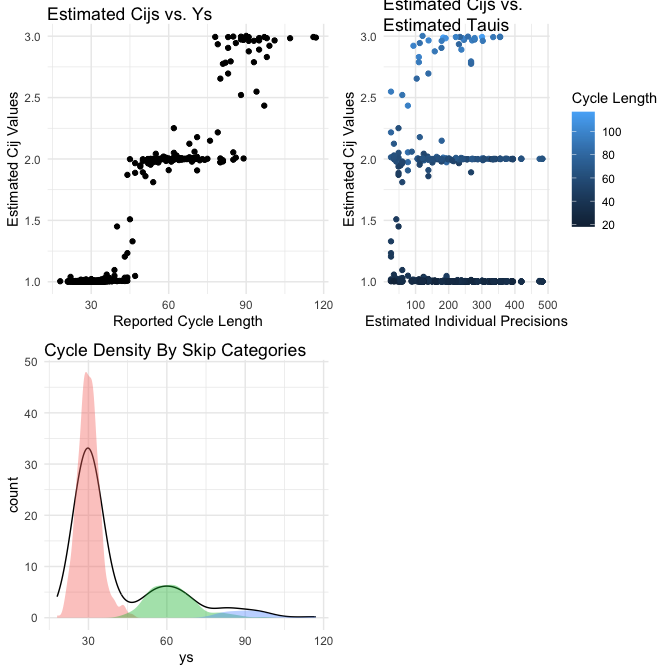
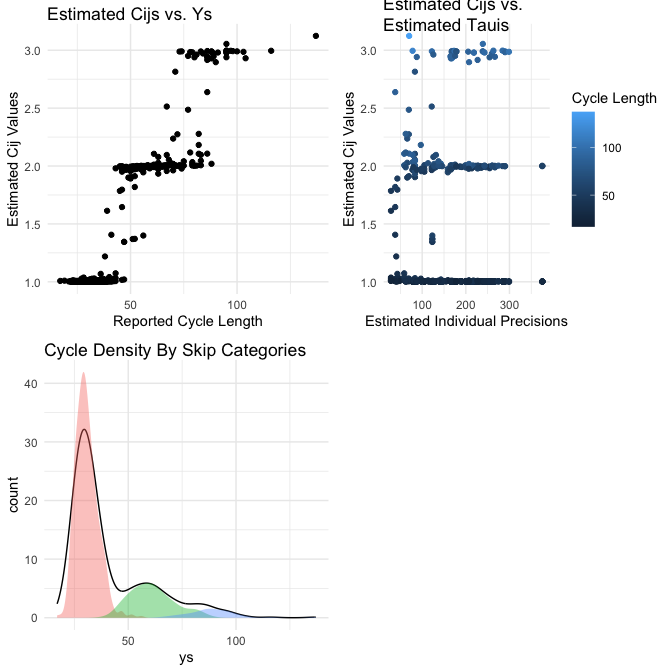
Updated readme to match vignette updates.

diff --git a/README.md b/README.md
@@ -53,6 +53,8 @@ cycle, a 20% probability of being two true cycles recorded as one, and a
 5% probability of being three true cycles recorded as one.
 
 ``` r
+set.seed(1)
+
 #Simulate data
 dat <- skipTrack.simulate(n = 100, model = 'skipTrack', skipProb = c(.75, .2, .05))
 ```
@@ -102,15 +104,15 @@ skipTrack.diagnostics(ft, param = 'cijs')
     #> 
     #> |Effective Sample Size: 
     #> |---------------------------
-    #> | Chain 1| Chain 2| Chain 3| Chain 4|    Sum|
-    #> |-------:|-------:|-------:|-------:|------:|
-    #> | 369.984| 151.771|  99.466|  139.51| 760.73|
+    #> | Chain 1| Chain 2| Chain 3| Chain 4|     Sum|
+    #> |-------:|-------:|-------:|-------:|-------:|
+    #> |  86.077|    81.6|  91.054| 114.178| 372.909|
     #> 
     #> |Gelman-Rubin Diagnostic: 
     #> |---------------------------
     #> | Point est.| Upper C.I.|
     #> |----------:|----------:|
-    #> |      1.001|      1.002|
+    #> |      1.001|      1.005|
 
 ### Visualization
 
@@ -132,57 +134,69 @@ Importantly, these results are based on a default chain burn-in value of
 750 draws. This can be changed using the parameter `burnIn` for either
 function.
 
+For example using `summary` with the default burnIn…
+
 ``` r
 summary(ft)
-#> ----------------------------------------------------
-#> Summary of skipTrack.fit using skipTrack model
-#> ----------------------------------------------------
-#> Mean Coefficients: 
-#> 
-#>             Estimate       95% CI Lower 95% CI Upper
-#> (Intercept)      3.4              3.376        3.423
-#> 
-#> ----------------------------------------------------
-#> Precision Coefficients: 
-#> 
-#>             Estimate       95% CI Lower 95% CI Upper
-#> (Intercept)    5.593              5.423        5.755
-#> 
-#> ----------------------------------------------------
-#> Diagnostics: 
-#> 
-#>        Effective Sample Size       Gelman-Rubin
-#> Betas                4004.00                  1
-#> Gammas                 21.74                  1
-#> cijs                  462.34                  1
-#> 
-#> ----------------------------------------------------
-
-summary(ft, burnIn = 500)
-#> ----------------------------------------------------
-#> Summary of skipTrack.fit using skipTrack model
-#> ----------------------------------------------------
-#> Mean Coefficients: 
-#> 
-#>             Estimate       95% CI Lower 95% CI Upper
-#> (Intercept)    3.399              3.375        3.423
-#> 
-#> ----------------------------------------------------
-#> Precision Coefficients: 
-#> 
-#>             Estimate       95% CI Lower 95% CI Upper
-#> (Intercept)    5.593              5.414        5.782
-#> 
-#> ----------------------------------------------------
-#> Diagnostics: 
-#> 
-#>        Effective Sample Size       Gelman-Rubin
-#> Betas                4004.00                  1
-#> Gammas                 21.78                  1
-#> cijs                  460.43                  1
-#> 
-#> ----------------------------------------------------
 ```
+
+produces the following output:
+
+    #> ----------------------------------------------------
+    #> Summary of skipTrack.fit using skipTrack model
+    #> ----------------------------------------------------
+    #> Mean Coefficients: 
+    #> 
+    #>             Estimate       95% CI Lower 95% CI Upper
+    #> (Intercept)    3.406              3.376        3.436
+    #> 
+    #> ----------------------------------------------------
+    #> Precision Coefficients: 
+    #> 
+    #>             Estimate       95% CI Lower 95% CI Upper
+    #> (Intercept)     5.36              5.134        5.593
+    #> 
+    #> ----------------------------------------------------
+    #> Diagnostics: 
+    #> 
+    #>        Effective Sample Size       Gelman-Rubin
+    #> Betas                 4004.0                  1
+    #> Gammas                  21.8                  1
+    #> cijs                   351.1                  1
+    #> 
+    #> ----------------------------------------------------
+
+On the other hand if we change the burnIn to 500…
+
+``` r
+summary(ft, burnIn = 500)
+```
+
+we see:
+
+    #> ----------------------------------------------------
+    #> Summary of skipTrack.fit using skipTrack model
+    #> ----------------------------------------------------
+    #> Mean Coefficients: 
+    #> 
+    #>             Estimate       95% CI Lower 95% CI Upper
+    #> (Intercept)    3.407              3.378        3.437
+    #> 
+    #> ----------------------------------------------------
+    #> Precision Coefficients: 
+    #> 
+    #>             Estimate       95% CI Lower 95% CI Upper
+    #> (Intercept)    5.342              5.125        5.569
+    #> 
+    #> ----------------------------------------------------
+    #> Diagnostics: 
+    #> 
+    #>        Effective Sample Size       Gelman-Rubin
+    #> Betas                4004.00                  1
+    #> Gammas                 21.77                  1
+    #> cijs                  460.23                  1
+    #> 
+    #> ----------------------------------------------------
 
 This introduction provides enough information to start fitting the
 SkipTrack model. For further information regarding different methods of
